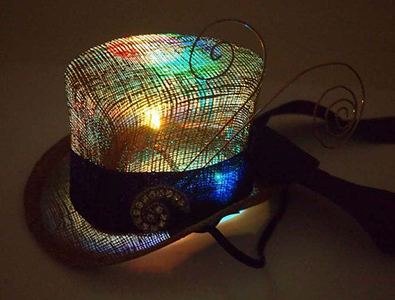
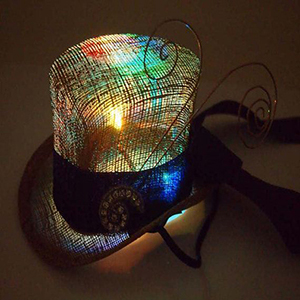
fixed flexbox and resized a few images

diff --git a/css/styles.css b/css/styles.css
@@ -95,12 +95,22 @@ header > ul > li > a:hover {
 	height: 400px;
 }
 
+.padding-left {
+	padding-left: 20px;
+}
+
+
 /* Main and Aside Styling */
 
 #flex-wrapper {
 	display: flex;
+	display:-webkit-flex;	
+}
+
+#product-flex {
+	display: flex;
 	display:-webkit-flex;
-	/* flex-wrap: wrap; */
+	flex-wrap: wrap;
 }
 
 main {

diff --git a/js/products.js b/js/products.js
@@ -11,7 +11,7 @@ products.push({name: "The Snow Bunny", description: "A hat for those cold winter
 
 
 
-let cards = document.getElementById("flex-wrapper");
+let cards = document.getElementById("product-flex");
 
 for (let i = 0; i < products.length; i++) {
 	cards.innerHTML += `<div class="card-wrapper">

diff --git a/products.html b/products.html
@@ -25,7 +25,9 @@
 
 		<img src="http://www.ravejungle.com/wp-content/uploads/2016/10/rave-ravejungle.jpg" class="hero">
 
-		<main id="flex-wrapper">
+		<h1 class="padding-left">Our Products</h1>
+
+		<main id="product-flex">
 		
 			<div id="card-wrapper">
 
